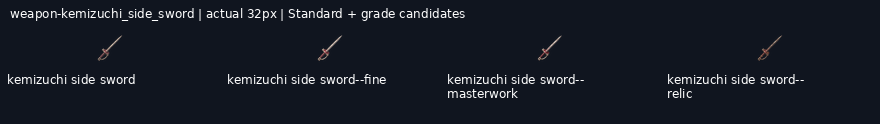
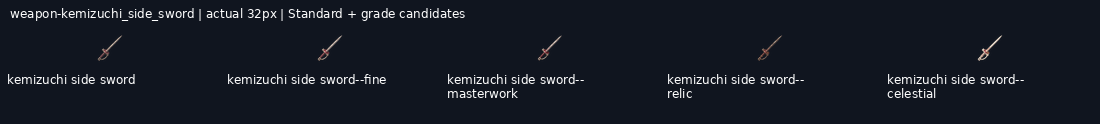
Deliver weapon-kemizuchi_side_sword--celestial review candidate with native provenance and exports

diff --git a/art/_archive/gear/2026-11-21-retry-continuation/HANDOFF.md b/art/_archive/gear/2026-11-21-retry-continuation/HANDOFF.md
@@ -1,13 +1,13 @@
 # Reset continuation progress
 
-Branch: `art/2026-11-20-reset-continuation`. New deliveries: 16/26.
+Branch: `art/2026-11-20-reset-continuation`. New deliveries: 17/26.
 
 Shared coordination: https://github.com/leonpentastorm/Project-Heaven-Cry/issues/3 . Read START-HERE.md before extending this queue.
 
 All new entries remain review-candidate; production_approved:false and implementation_ready:false. Exact-outline review remains pending.
 
-Ready jobs: weapon-purifier_flamer--masterwork, weapon-ork_cleaver_glaive--masterwork, weapon-broadback_sabre--relic, weapon-hellraiser_rotary--celestial, weapon-kemizuchi_side_sword--celestial.
+Ready jobs: weapon-purifier_flamer--masterwork, weapon-ork_cleaver_glaive--masterwork, weapon-broadback_sabre--relic, weapon-hellraiser_rotary--celestial.
 
-Pending jobs: weapon-purifier_flamer--masterwork, weapon-ork_cleaver_glaive--masterwork, weapon-purifier_flamer--relic, weapon-broadback_sabre--relic, weapon-ork_cleaver_glaive--relic, weapon-hellraiser_rotary--celestial, weapon-purifier_flamer--celestial, weapon-broadback_sabre--celestial, weapon-kemizuchi_side_sword--celestial, weapon-ork_cleaver_glaive--celestial.
+Pending jobs: weapon-purifier_flamer--masterwork, weapon-ork_cleaver_glaive--masterwork, weapon-purifier_flamer--relic, weapon-broadback_sabre--relic, weapon-ork_cleaver_glaive--relic, weapon-hellraiser_rotary--celestial, weapon-purifier_flamer--celestial, weapon-broadback_sabre--celestial, weapon-ork_cleaver_glaive--celestial.
 
 Quota state: null.

diff --git a/art/briefs/prompts-2026-11-19/PRODUCTION-STATUS.md b/art/briefs/prompts-2026-11-19/PRODUCTION-STATUS.md
@@ -1,12 +1,12 @@
 # Current sole-artist production
 
-**529/871 (60.7%) selected review candidates.** Last delivery: `weapon-kemizuchi_side_sword--relic`. Imports, exports, components, rejected attempts and archived alternatives add0. Artistic/implementation approvals remainfalse.
+**530/871 (60.8%) selected review candidates.** Last delivery: `weapon-kemizuchi_side_sword--celestial`. Imports, exports, components, rejected attempts and archived alternatives add0. Artistic/implementation approvals remainfalse.
 
 | Requested work | Selected | Total |
 | --- | ---: | ---: |
 | icons_tiles | 88 | 88 |
 | new_repaint_standards | 53 | 104 |
-| grades | 374 | 656 |
+| grades | 375 | 656 |
 | uniques | 14 | 23 |
 
 Active run sole-20261121-0109, branch art/2026-11-20-reset-continuation. Shared live ledger: https://github.com/leonpentastorm/Project-Heaven-Cry/issues/3 . Current renewed grade lane: art/_archive/gear/2026-11-21-retry-continuation/START-HERE.md. All earlier512 candidate drawings were integrated before this lane; native bytes, cleaned imports, source metadata and all prior failures preserved.

diff --git a/art/_archive/gear/2026-11-20-reset-continuation/START-HERE.md b/art/_archive/gear/2026-11-20-reset-continuation/START-HERE.md
@@ -1,6 +1,6 @@
 # Current21November continuation
 
-529/871 selected. Active lane art/_archive/gear/2026-11-21-retry-continuation/START-HERE.md, run sole-20261121-0109. User explicitly authorized renewed fictional-art attempts; all priorart/errors preserved. Read liveissue3+allcomments and remote deliveries before everyrender. RunningScript completed with original marks unchanged. All approvalsfalse;0.30 holdsremain. See PRODUCTION-STATUS.md and REMAINING-WORK.json for the latest exact count.
+530/871 selected. Active lane art/_archive/gear/2026-11-21-retry-continuation/START-HERE.md, run sole-20261121-0109. User explicitly authorized renewed fictional-art attempts; all priorart/errors preserved. Read liveissue3+allcomments and remote deliveries before everyrender. RunningScript completed with original marks unchanged. All approvalsfalse;0.30 holdsremain. See PRODUCTION-STATUS.md and REMAINING-WORK.json for the latest exact count.
 
 # Historical20November handoff
 
